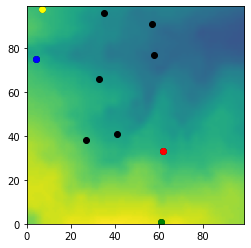
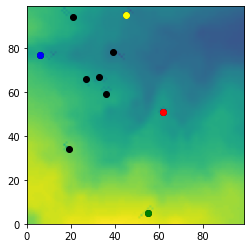
latest

diff --git a/GEOG5990/abm5/index.html b/GEOG5990/abm5/index.html
@@ -76,10 +76,10 @@ columns for each row.</p>
 <p>Change the code block into a function called 'read_data' that
 returns the data variable. Write code to call this function from
 model.py by adding the following import statement:</p>
-<pre>import io</pre>
+<pre><code class="language-python">import io</code></pre>
 <p>After the import statements try to call the read_data function
 using:</p>
-<pre>environment = io.read_data()</pre>
+<pre><code class="language-python">environment = io.read_data()</code></pre>
 <p>It is expected that you will encounter an error along the lines
 of the following:</p>
 <pre>Traceback (most recent call last):
@@ -95,33 +95,42 @@ imported instead of the 'io' module that you have just created.
 <p>Create a directory called my_modules and move io.py and
 agentframework.py into it. Change the respective import statements
 in model.py to be:</p>
-<pre><code class="language-python">from my_modules import agentframework
-from my_modules import io</code></pre>
-<p>Your code should now run without error. If you still get a
-confusing error then try restarting Spyder and hopefully the error
-will no longer be raised.</p>
+<pre><code class="language-python">import my_modules.agentframework as af
+import my_modules.io as io</code></pre>
+<p>Your code should now run without error. If you still get an
+error then try restarting Spyder.</p>
 <p>Change the function read_data so it checks that each row of
-data contains the same number of values, and so it returns the
-number of lines (n_rows) and number of values in each line
-(n_cols) as well as data.</p>
+data contains the same number of values. Also change the function
+so it returns the number of lines (n_rows) and number of values
+in each line (n_cols) as well as data.</p>
 
 <h2 id="3">3. Plot environment</h2>
 <p>Assume that each row aligns with a y-coordinate and each column
 aligns with an x-coordinate.</p>
 <p>To plot the agents on the environment add the following at the
 start of the plotting section:</p>
-<pre>plt.imshow(environment)</pre>
+<pre><code class="language-python">plt.imshow(environment)</code></pre>
 <p>A plot should be produced that looks like:</p>
 <p><img src="../../resources/abm5/Figure_1.png"
-  alt="A plot of agents on the enviornment." /></p>
+  alt="A plot of agents on the environment." /></p>
 <p>Notice that the plot y-axis has flipped. Limit the plot axes
 and flip the y-axis back by adding the following code before the
 plot.show() function is called:</p>
-<pre>plt.ylim(y_min, y_max)
-plt.xlim(x_min, x_max)</pre>
+<pre><code class="language-python">plt.ylim(y_min, y_max)
+plt.xlim(x_min, x_max)</code></pre>
 <p>The output plot should now look like:</p>
-<p><img src="../../resources/abm5/Figure_2.png"
-  alt="A plot of agents on a limited part of the environment." /></p>
+<img src="../../resources/abm5/Figure_2.png"
+  alt="A plot of agents on a limited part of the environment." />
+<p>Change the initialisation of x_max and y_max as follows:</p>
+<pre><code class="language-python"># The maximum x coordinate.
+x_max = n_cols - 1
+# The maximum y coordinate.
+y_max = n_rows - 1</code></pre>
+<p>The output plot should now look like:</p>
+<img src="../../resources/abm5/Figure_3.png"
+  alt="A plot of agents on the environment in the middle." />
+<p>
+</p>
 
 <h2 id="4">4. Agent-Environment Interaction</h2>
 <p>Imagine that the environment values represent resources that
@@ -177,6 +186,35 @@ plotted as in the following image:
 </p>
 <p>If the changes are hard to see, try increasing n_iterations and
 hopfully this will be more obvious.</p>
+<p>Currently, the agents are being initialised in a corner of the
+environment. Change the code so that they are initialised in the
+middle as follows: Change the constructor function of an agent so
+that it is also passed the n_rows and n_cols parameters.
+, but we want them to be
+<pre><code class="language-python">def __init__(self, i, environment, n_rows, n_cols):
+    """
+    The constructor method.
+
+    Parameters
+    ----------
+    i : Integer
+        To be unique to each instance.
+    environment : List
+        A reference to a shared environment.
+    n_rows : Integer
+        The number of rows in environment.
+    n_cols : Integer
+        The number of columns in environment.
+    Returns
+    -------
+    None.
+
+    """
+    self.i = i
+    self.environment = environment
+    self.x = random.randint(0, 99)
+    self.y = random.randint(0, 99)
+    self.store = 0</code></pre>
 <p>Commit your code to your local repository and assuming you are
 using GitHub - push your changes to GitHub.</p>
 
@@ -202,7 +240,7 @@ using GitHub - push your changes to GitHub.</p>
 <div>
 <p><a id="next" class="nav" href="../modules/index.html">Next: Modules</a></p>
 </div>
-<p>Date last modified: 2023-02-25.</p>
+<p>Date last modified: 2023-02-26.</p>
 <p><a href="https://creativecommons.org/share-your-work/public-domain/cc0/">CC0 Licence</a></p>
 </footer>
 </body>

diff --git a/GEOG5990/abm6/index.html b/GEOG5990/abm6/index.html
@@ -31,11 +31,9 @@ DOM is fully loaded. -->
 <div>
 <h1>Agent Based Model Part 6</h1>
 <h2 id="1">1. Introduction and Preparation</h2>
-<p>To get the agents in the model communicating they need a way of
-referring to each other, to get values of some variables and to
-set values of some variables. Communication will depend on
-distance in our simple model, so each agent will need a way to
-calculate which other agents are within a given distance of them.
+<p>To get the agents communicating they need a way to refer to
+each other. Those agents that are within a given distance are
+going to share some resource.
 </p>
 <p>In your local code repository src directory create a new
 directory called "abm6". Open Spyder and use "save as" to save
@@ -44,22 +42,25 @@ your "model.py" into this directory. Create a new directory called
 "agentframework.py" and "io.py" files there.</p>
 
 <h2 id="2">2. Sharing</h2>
-<p>What we are actually going to implement is a sharing mechanism
-where each agent shares their store equally amongst all agents
-within a given radius. The algorithm is as follows:</p>
-<pre># Calculate which other agents are within radius.
+<p>Each agent is going to share their store equally amongst all
+agents within a given distance. The algorithm is as follows:</p>
+<pre># Calculate which other agents are within a given distance.
 # Calculate shares.
-# Distribute shares
-# Add shares to stores.</pre>
-<p>This has to be done in two parts to be done fairly (so the
-order in which we do this is irrelevant), and requires an extra
-variable.</p>
-<p>Change the Agent contructor function to include the
-agents list and add an attribute for storing the shares as
-follows:</p>
+# Distribute shares.</pre>
+<p>In order to share resources fairly (in that the order in which
+agents are processed is irrelevant), there is a need to
+distinguish those resources to be shared with those that have been
+shared.</p>
+<p>Change the Agent contructor function to include the agents list
+and add an attribute for storing the shares as follows:</p>
 <pre><code class="language-python">def __init__(self, agents, i, environment, nrows, ncols):
-        self.agents = agents
-        self.store_shares = 0</code></pre>
+    self.agents = agents
+    self.i = i
+    self.environment = environment
+    self.x = random.randint(0, 99)
+    self.y = random.randint(0, 99)
+    self.store = 0
+    self.store_shares = 0</code></pre>
 <p>Change model.py so that agents are initialised passing in the
 reference to the agents list.</p>
 <p>Test your code works and that this provide access to another
@@ -143,7 +144,7 @@ then half the store is released back to the environment.</p>
 <div>
 <p><a id="next" class="nav" href="../exceptions/index.html">Next: Exceptions</a></p>
 </div>
-<p>Date last modified: 2023-02-25.</p>
+<p>Date last modified: 2023-02-26.</p>
 <p><a href="https://creativecommons.org/share-your-work/public-domain/cc0/">CC0 Licence</a></p>
 </footer>
 </body>

diff --git a/GEOG5990/abm4/index.html b/GEOG5990/abm4/index.html
@@ -57,10 +57,10 @@ an Agent class in it:</p>
 syntactically correct and will run.</p>
 <p>In the model.py file reduce n_iterations to 10, and add the
 following import statement:</p>
-<pre><code class="language-python">import agentframework</code></pre>
+<pre><code class="language-python">import agentframework as af</code></pre>
 <p>At the start of the "# Initialise agents" code section add the
 following lines:</p>
-<pre><code class="language-python">a = agentframework.Agent()
+<pre><code class="language-python">a = af.Agent()
 print("type(a)", type(a))</code></pre>
 <p>Run model.py and examine the output which should contain the
 following line:</p>
@@ -109,7 +109,7 @@ be:</p>
 agents = []
 for i in range(n_agents):
     # Create an agent
-    agents.append(agentframework.Agent())
+    agents.append(af.Agent())
     print(agents[i])
 print(agents)</code></pre>
 <p>Run model.py and you should get similar output to the
@@ -268,7 +268,7 @@ using GitHub - push your changes to GitHub.</p>
 <div>
 <p><a id="next" class="nav" href="../io/index.html">Next: IO</a></p>
 </div>
-<p>Date last modified: 2023-02-25.</p>
+<p>Date last modified: 2023-02-26.</p>
 <p><a href="https://creativecommons.org/share-your-work/public-domain/cc0/">CC0 Licence</a></p>
 </footer>
 </body>

diff --git a/GEOG5990/abm2/index.html b/GEOG5990/abm2/index.html
@@ -164,8 +164,7 @@ and do the initialition more simply?</p>
 <p>Now plot the coordinates using matplotlib by adding the
 following import statements to those at the top of your file:
 </p>
-<pre><code class="language-python">import matplotlib
-from matplotlib import pyplot as plt
+<pre><code class="language-python">import matplotlib.pyplot as plt
 import operator</code></pre>
 <p>And adding the following code to the end of your file:</p>
 <pre><code class="language-python"># Plot the agents
@@ -239,7 +238,7 @@ numbers of agents.</p>
 <div>
 <p><a id="next" class="nav" href="../functions/index.html">Next: Functions</a></p>
 </div>
-<p>Date last modified: 2023-02-25.</p>
+<p>Date last modified: 2023-02-26.</p>
 <p><a href="https://creativecommons.org/share-your-work/public-domain/cc0/">CC0 Licence</a></p>
 </footer>
 </body>

diff --git a/GEOG5990/abm3/index.html b/GEOG5990/abm3/index.html
@@ -34,8 +34,7 @@ DOM is fully loaded. -->
 <p>Your ABM code should look something like the following:</p>
 <pre><code class="language-python">import random
 import math
-import matplotlib
-from matplotlib import pyplot as plt
+import matplotlib.pyplot as plt
 import operator
 
 # Set the pseudo-random seed for reproducibility
@@ -483,7 +482,7 @@ are using GitHub - push your changes to GitHub.</p>
 <div>
 <p><a id="next" class="nav" href="../classes/index.html">Next: Classes</a></p>
 </div>
-<p>Date last modified: 2023-02-25.</p>
+<p>Date last modified: 2023-02-26.</p>
 <p><a href="https://creativecommons.org/share-your-work/public-domain/cc0/">CC0 Licence</a></p>
 </footer>
 </body>

diff --git a/GEOG5990/abm8/index.html b/GEOG5990/abm8/index.html
@@ -67,7 +67,7 @@ Note also that whereas we did have matplotlib.plot.show() we've replaced this an
 <div>
 <p><a id="next" class="nav" href="../web/index.html">Next: Web</a></p>
 </div>
-<p>Date last modified: 2023-02-25.</p>
+<p>Date last modified: 2023-02-26.</p>
 <p><a href="https://creativecommons.org/share-your-work/public-domain/cc0/">CC0 Licence</a></p>
 </footer>
 </body>

diff --git a/GEOG5990/programming/index.html b/GEOG5990/programming/index.html
@@ -279,7 +279,7 @@ important to keep track of what you consult and avoid plagiarism
 <div>
 <p><a id="next" class="nav" href="../python/index.html">Next: Python</a></p>
 </div>
-<p>Date last modified: 2023-02-25.</p>
+<p>Date last modified: 2023-02-26.</p>
 <p><a href="https://creativecommons.org/share-your-work/public-domain/cc0/">CC0 Licence</a></p>
 </footer>
 </body>

diff --git a/GEOG5990/containers/index.html b/GEOG5990/containers/index.html
@@ -301,7 +301,7 @@ Python documentation tutorial about data structures</a>.
 <div>
 <p><a id="next" class="nav" href="../branching/index.html">Next: Branching</a></p>
 </div>
-<p>Date last modified: 2023-02-25.</p>
+<p>Date last modified: 2023-02-26.</p>
 <p><a href="https://creativecommons.org/share-your-work/public-domain/cc0/">CC0 Licence</a></p>
 </footer>
 </body>

diff --git a/GEOG5990/abm1/index.html b/GEOG5990/abm1/index.html
@@ -253,7 +253,7 @@ are using GitHub - push your changes to GitHub.</p>
 <div>
 <p><a id="next" class="nav" href="../containers/index.html">Next: Containers</a></p>
 </div>
-<p>Date last modified: 2023-02-25.</p>
+<p>Date last modified: 2023-02-26.</p>
 <p><a href="https://creativecommons.org/share-your-work/public-domain/cc0/">CC0 Licence</a></p>
 </footer>
 </body>

diff --git a/GEOG5990/io/index.html b/GEOG5990/io/index.html
@@ -324,7 +324,7 @@ glob</a> - for pattern hunting in files and directories.</p>
 <div>
 <p><a id="next" class="nav" href="../abm5/index.html">Next: ABM5</a></p>
 </div>
-<p>Date last modified: 2023-02-25.</p>
+<p>Date last modified: 2023-02-26.</p>
 <p><a href="https://creativecommons.org/share-your-work/public-domain/cc0/">CC0 Licence</a></p>
 </footer>
 </body>

diff --git a/GEOG5990/variables/index.html b/GEOG5990/variables/index.html
@@ -283,7 +283,7 @@ del(b, c) # <-- deletes b and c</code></pre>
 <div>
 <p><a id="next" class="nav" href="../github/index.html">Next: GitHub</a></p>
 </div>
-<p>Date last modified: 2023-02-25.</p>
+<p>Date last modified: 2023-02-26.</p>
 <p><a href="https://creativecommons.org/share-your-work/public-domain/cc0/">CC0 Licence</a></p>
 </footer>
 </body>

diff --git a/GEOG5990/abm7/index.html b/GEOG5990/abm7/index.html
@@ -218,7 +218,7 @@ gradually accumulate as well as being eaten.</li>
 <div>
 <p><a id="next" class="nav" href="../gui/index.html">Next: GUI</a></p>
 </div>
-<p>Date last modified: 2023-02-25.</p>
+<p>Date last modified: 2023-02-26.</p>
 <p><a href="https://creativecommons.org/share-your-work/public-domain/cc0/">CC0 Licence</a></p>
 </footer>
 </body>
